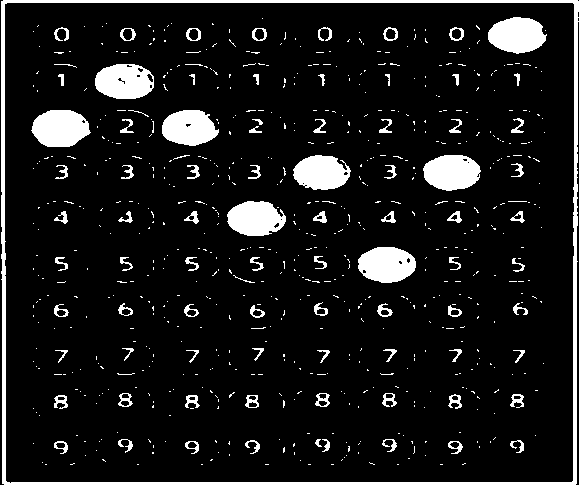
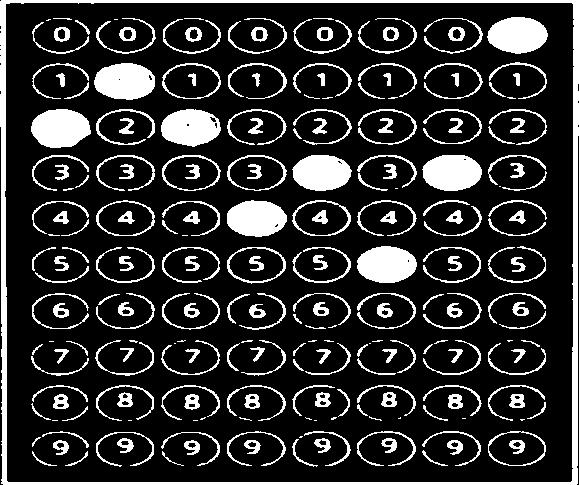
aumentado threshold para melhorar o reconhecimento da matricula

diff --git a/ORM_Main.py b/ORM_Main.py
@@ -74,7 +74,7 @@ async def process_pdf(file: UploadFile = File(...)):
         x, y, w, h = cv2.boundingRect(first_col_pts)
         first_col_img = img[y:y+h, x:x+w]
         gray = cv2.cvtColor(first_col_img, cv2.COLOR_BGR2GRAY)
-        thresh = cv2.threshold(gray, 150, 255, cv2.THRESH_BINARY_INV)[1]
+        thresh = cv2.threshold(gray, 180, 255, cv2.THRESH_BINARY_INV)[1]
         path = os.path.join("cutouts", "column_1.png")
         cv2.imwrite(path, thresh)
         cutout_paths.append(path)
@@ -84,7 +84,7 @@ async def process_pdf(file: UploadFile = File(...)):
         x, y, w, h = cv2.boundingRect(matricula_pts)
         matricula_img = img[y:y+h, x:x+w]
         matricula_gray = cv2.cvtColor(matricula_img, cv2.COLOR_BGR2GRAY)
-        matricula_thresh = cv2.threshold(matricula_gray, 150, 255, cv2.THRESH_BINARY_INV)[1]
+        matricula_thresh = cv2.threshold(matricula_gray, 180, 255, cv2.THRESH_BINARY_INV)[1]
 
         # Save matricula in a new folder
         matricula_path = os.path.join("matricula", "matricula.png")
@@ -95,7 +95,7 @@ async def process_pdf(file: UploadFile = File(...)):
             x, y, w, h = cv2.boundingRect(pts)
             col_img = img[y:y+h, x:x+w]
             gray = cv2.cvtColor(col_img, cv2.COLOR_BGR2GRAY)
-            thresh = cv2.threshold(gray, 150, 255, cv2.THRESH_BINARY_INV)[1]
+            thresh = cv2.threshold(gray, 180, 255, cv2.THRESH_BINARY_INV)[1]
             path = os.path.join("cutouts", f"column_{idx+2}.png")
             cv2.imwrite(path, thresh)
             cutout_paths.append(path)
